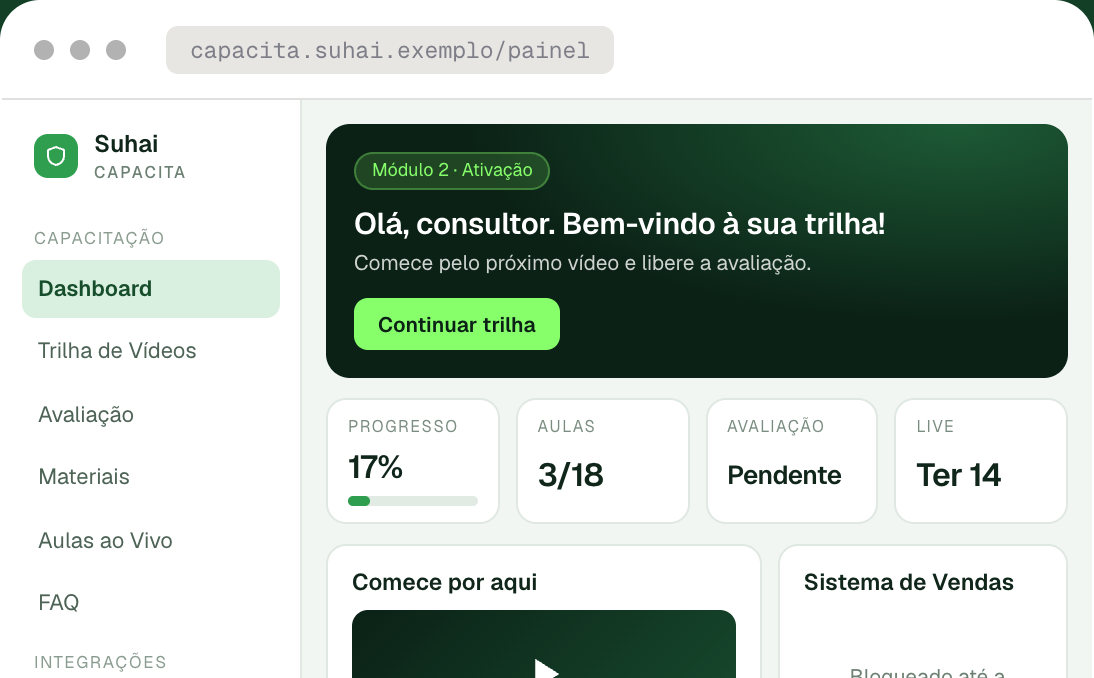
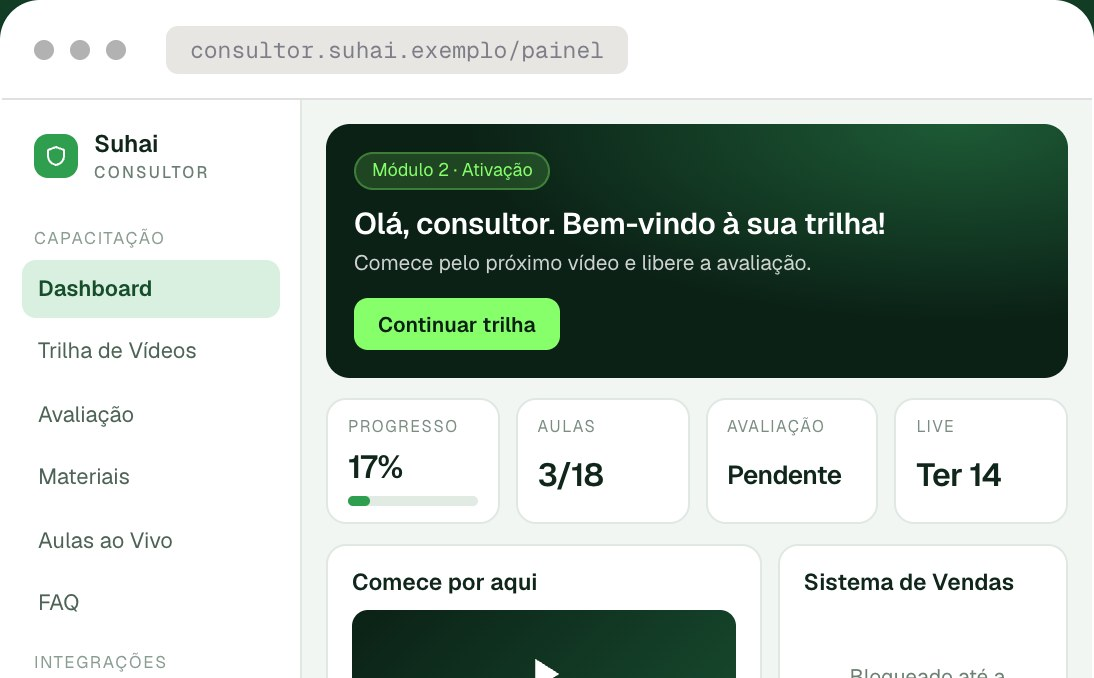
README com instruções de publicação; miniatura e endereço do Consultor Suhai; remove notas internas do repositório

diff --git a/design-system.html b/design-system.html
@@ -244,6 +244,14 @@ code,.mono{font-family:var(--font-mono)}
 .logo-sq{fill:#FF5047;transform-box:fill-box;transform-origin:center}
 .logo--branco{color:#fff}.logo--branco .logo-sq{fill:#fff}
 .logo--cinza{color:#565660}
+/* logo com palavra: o quadrado pula, gira 90° e troca de cor; a palavra entra embaixo */
+.lw{position:relative;width:min(80%,440px);container-type:inline-size;color:var(--fg)}
+.lw .logo-svg{height:auto;width:100%}
+.lw-hop{position:absolute;left:94.45%;top:50%;width:5.6%;height:21.132%;will-change:transform}
+.lw-sq{width:100%;height:100%;background:var(--coral);will-change:transform}
+.lw-words{position:absolute;right:0;top:calc(100% + 1.2cqw);height:9cqw;width:100%}
+.lw-w{position:absolute;right:0;top:0;font-family:var(--font-body);font-weight:500;font-size:7.6cqw;line-height:1;letter-spacing:-.015em;white-space:nowrap}
+.lw-stage{place-items:center;min-height:260px;padding-bottom:48px}
 .nav-links{display:flex;gap:2px;align-items:center}
 .nav-links .dd>button,.nav-links>a{display:inline-flex;align-items:center;gap:6px;padding:8px 12px;border:0;background:transparent;border-radius:var(--r-2);cursor:pointer;text-decoration:none;font-size:14.5px;color:var(--fg-2);transition:color var(--t-fast) ease,background var(--t-fast) ease}
 .nav-links .dd>button:hover,.nav-links>a:hover,.nav-links .dd.open>button{color:var(--fg);background:var(--surface-2)}
@@ -527,7 +535,7 @@ blockquote footer{margin-top:20px;display:flex;align-items:center;gap:12px;color
 <div class="cat" id="top">
   <nav class="cat-nav" aria-label="Catálogo">
     <h4>Fundamentos</h4>
-    <a href="#logotipo">Logotipo</a><a href="#favicon">Favicon</a><a href="#cores">Cores</a><a href="#tipografia">Tipografia</a><a href="#espaco">Espaço, raios e sombras</a><a href="#grid">Grid e moldura</a><a href="#vidro">Vidro</a><a href="#icones">Ícones</a><a href="#movimento">Movimento</a>
+    <a href="#logotipo">Logotipo</a><a href="#logo-palavra">Logo com palavra</a><a href="#favicon">Favicon</a><a href="#cores">Cores</a><a href="#tipografia">Tipografia</a><a href="#espaco">Espaço, raios e sombras</a><a href="#grid">Grid e moldura</a><a href="#vidro">Vidro</a><a href="#icones">Ícones</a><a href="#movimento">Movimento</a>
     <h4>Componentes básicos</h4>
     <a href="#botoes">Botões</a><a href="#liquido">Botão com degradê</a><a href="#tags">Tags e status</a><a href="#campos">Campos</a><a href="#selecao">Seleção e ajuste</a><a href="#tooltip-dd">Tooltip e dropdown</a><a href="#acc-tabs">Accordion e tabs</a><a href="#nav-pag">Breadcrumbs e paginação</a><a href="#feedback">Alerta e toast</a><a href="#overlays">Modal e drawer</a><a href="#estados">Vazio e skeleton</a>
     <h4>Componentes do site</h4>
@@ -559,8 +567,34 @@ blockquote footer{margin-top:20px;display:flex;align-items:center;gap:12px;color
           <div class="grid g3">
             <div><span class="stage-h">Tamanho mínimo</span><p class="t-small" style="margin-top:8px">24 px de altura em tela (o quadrado fica com 5 px). Abaixo disso, use só o quadrado coral.</p></div>
             <div><span class="stage-h">Área de proteção</span><p class="t-small" style="margin-top:8px">Livre em todos os lados a uma distância igual à altura do quadrado do logotipo, no mínimo.</p></div>
-            <div><span class="stage-h">Não fazer</span><p class="t-small" style="margin-top:8px">Não recolorir o quadrado, não usar gradiente, sombra ou contorno no logotipo, e não separar o quadrado do wordmark, exceto na animação do hero.</p></div>
+            <div><span class="stage-h">Não fazer</span><p class="t-small" style="margin-top:8px">Não recolorir o quadrado, não usar gradiente, sombra ou contorno no logotipo, e não separar o quadrado do wordmark, exceto na animação do hero e no logo com palavra.</p></div>
           </div>
+        </div>
+      </div>
+
+      <div class="spec" id="logo-palavra">
+        <header><h3>Logo com palavra</h3><p>Animação de assinatura. O quadrado do logotipo pula, gira 90° e troca de cor no topo do arco. Ao pousar, uma palavra entra embaixo na mesma cor. Depois da última palavra ele volta ao coral e o logo fica limpo. O quadrado nunca estica nem amassa. Usar em abertura de vídeo, hero, tela de carregamento e fechamento de apresentação, uma vez por tela.</p><code>.lw · .lw-hop · .lw-sq · .lw-words · data-lw-words</code></header>
+        <div class="grid g2">
+          <div class="stage lw-stage" data-surface="paper"><div class="lw" role="img" aria-label="segbox" data-lw-words="tecnologia, inovação, white label, projetos exclusivos"><svg class="logo-svg" viewBox="0 0 2000 530" aria-hidden="true"><use href="#logo-word"/></svg><div class="lw-hop"><div class="lw-sq"></div></div><div class="lw-words"></div></div><span class="stage-h" style="position:absolute;left:16px;top:14px">Fundo claro</span></div>
+          <div class="stage lw-stage" data-surface="ink"><div class="lw" role="img" aria-label="segbox" data-lw-words="tecnologia, inovação, white label, projetos exclusivos"><svg class="logo-svg" viewBox="0 0 2000 530" aria-hidden="true"><use href="#logo-word"/></svg><div class="lw-hop"><div class="lw-sq"></div></div><div class="lw-words"></div></div><span class="stage-h" style="position:absolute;left:16px;top:14px">Fundo escuro</span></div>
+        </div>
+        <div class="stage" data-surface="paper">
+          <div class="scroll-x"><table class="tbl">
+            <tr><th>Parte</th><th>Regra</th><th>Valor</th></tr>
+            <tr><td>Ciclo por palavra</td><td>pulo + pausa com a palavra na tela</td><td>560 + 640 ms</td></tr>
+            <tr><td>Pulo</td><td>sobe 1,7× o lado do quadrado, sem deformar</td><td>subida (0.25, 0.6, 0.35, 1) · queda (0.55, 0, 0.75, 0.3)</td></tr>
+            <tr><td>Giro</td><td>+90° por pulo, acumulado</td><td>(0.45, 0, 0.2, 1)</td></tr>
+            <tr><td>Troca de cor</td><td>no topo do arco, sem transição</td><td>laranja → tinta → coral</td></tr>
+            <tr><td>Palavra entra</td><td>sobe 45% da altura e tira 4 px de desfoque</td><td>280 ms · (0.2, 0.8, 0.2, 1)</td></tr>
+            <tr><td>Palavra sai</td><td>sobe 35% e desfoca 3 px</td><td>180 ms · (0.4, 0, 1, 1)</td></tr>
+            <tr><td>Logo limpo</td><td>volta ao coral e segura antes de repetir</td><td>1600 ms</td></tr>
+          </table></div>
+          <div class="grid g3">
+            <div><span class="stage-h">Palavras</span><p class="t-small" style="margin-top:8px">Minúsculas, uma ou duas palavras, sobre o que a Segbox faz: tecnologia, inovação, white label, projetos exclusivos. No máximo cinco por ciclo.</p></div>
+            <div><span class="stage-h">Tamanho</span><p class="t-small" style="margin-top:8px">Palavra com 7,6% da largura do logotipo, peso 500, alinhada à direita do quadrado. Logotipo com pelo menos 160 px de largura.</p></div>
+            <div><span class="stage-h">Não fazer</span><p class="t-small" style="margin-top:8px">Não esticar ou amassar o quadrado, não usar roxo, não colocar duas animações dessas na mesma tela e não usar palavra em laranja como texto de leitura.</p></div>
+          </div>
+          <p class="note">Com movimento reduzido ligado, o quadrado não pula: só troca de cor e a palavra aparece com fade.</p>
         </div>
       </div>
 
@@ -1537,3 +1571,38 @@ html.sgm-lock,html.sgm-lock body{overflow:hidden}
 })();
 </script>
 <!-- sgm:end -->
+<script>
+/* logo com palavra */
+(()=>{
+  const reduce=matchMedia('(prefers-reduced-motion: reduce)').matches;
+  const HOP=560,HOLD=640,REST=1600,ORDER=['ember','ink','coral'];
+  document.querySelectorAll('.lw').forEach(lw=>{
+    const hop=lw.querySelector('.lw-hop'),sq=lw.querySelector('.lw-sq'),box=lw.querySelector('.lw-words');
+    const words=(lw.dataset.lwWords||'').split(',').map(w=>w.trim()).filter(Boolean);
+    const col=k=>k==='coral'?'#FF5047':k==='ember'?'#FF8308':getComputedStyle(lw).color;
+    let rot=0,cur=null,i=-1;
+    function swap(text,color){
+      if(cur){const o=cur;cur=null;o.animate([{opacity:1,transform:'translateY(0)',filter:'blur(0)'},{opacity:0,transform:'translateY(-35%)',filter:'blur(3px)'}],{duration:reduce?120:180,easing:'cubic-bezier(.4,0,1,1)',fill:'forwards'}).finished.then(()=>o.remove())}
+      if(!text)return;
+      const w=document.createElement('span');w.className='lw-w';w.textContent=text;w.style.color=color;box.appendChild(w);cur=w;
+      w.animate(reduce?[{opacity:0},{opacity:1}]:[{opacity:0,transform:'translateY(45%)',filter:'blur(4px)'},{opacity:1,transform:'translateY(0)',filter:'blur(0)'}],{duration:280,delay:reduce?0:40,easing:'cubic-bezier(.2,.8,.2,1)',fill:'backwards'});
+    }
+    function jump(k,text){
+      const c=col(k);
+      if(reduce){sq.style.background=c;swap(text,c);return}
+      const r0=rot;rot+=90;
+      hop.animate([{transform:'translateY(0)',easing:'cubic-bezier(.25,.6,.35,1)'},{transform:'translateY(-170%)',offset:.5,easing:'cubic-bezier(.55,0,.75,.3)'},{transform:'translateY(0)'}],{duration:HOP});
+      sq.getAnimations().forEach(a=>a.cancel());
+      sq.animate([{transform:`rotate(${r0}deg)`},{transform:`rotate(${rot}deg)`}],{duration:HOP,easing:'cubic-bezier(.45,0,.2,1)',fill:'forwards'});
+      setTimeout(()=>{sq.style.background=c},HOP*.52);
+      setTimeout(()=>swap(text,c),HOP*.6);
+    }
+    function step(){
+      i++;
+      if(i>=words.length){jump('coral','');i=-1;setTimeout(step,HOP+REST);return}
+      jump(ORDER[i%3],words[i]);setTimeout(step,HOP+HOLD);
+    }
+    if(words.length)setTimeout(step,900);
+  });
+})();
+</script>

diff --git a/case-suhai-academy-v2.html b/case-suhai-academy-v2.html
@@ -1006,7 +1006,7 @@ body{background:var(--bone-100)}
 <p class="lead" data-in style="--i:2">A Suhai criou o programa. A Segbox construiu a plataforma que faz a regra valer: trilha em sequência, avaliação, certificado e só então o sistema de vendas.</p>
 <div class="row" data-in style="--i:3"><a class="btn btn--lg" href="#contato">Fale com a gente <svg class="ico ico-move"><use href="#i-arrow-ur"/></svg></a><a class="btn btn--secondary btn--lg" href="#jornada">Ver a jornada</a></div>
 <div class="chips" data-in style="--i:4"><span class="tag tag--boxed">Feito sobre a Otimize White Label</span><span class="tag tag--boxed">Projeto sob medida</span><span class="tag tag--boxed">Integração por SSO</span></div></div>
-<div class="stack" data-tilt data-in style="--i:2"><i class="sq sq--coral" style="width:150px;height:150px;right:2%;top:0"></i><i class="sq sq--indigo" style="width:88px;height:88px;right:-1%;bottom:34px"></i><i class="sq sq--ember" style="width:44px;height:44px;left:2%;top:4px"></i><div class="win ac"><div class="chrome"><span></span><span></span><span></span><div class="url">capacita.suhai.exemplo/painel</div></div><div class="ac-shell"><aside class="ac-side"><div class="ac-brand"><i><svg viewBox="0 0 24 24" stroke-linecap="round" stroke-linejoin="round"><path d="M12 3l8 3v6c0 5-3.5 8-8 9-4.5-1-8-4-8-9V6l8-3z"/></svg></i><span>Suhai<small>CONSULTOR</small></span></div><span class="sep">Capacitação</span><a class="on">Dashboard</a><a>Trilha de Vídeos</a><a>Avaliação</a><a>Materiais</a><a>Aulas ao Vivo</a><a>FAQ</a><span class="sep">Integrações</span><a>Sistema de Vendas</a><a>Venda+ Suhai</a></aside><div class="ac-main"><div class="ac-hero"><span class="chip">Módulo 2 · Ativação</span><h4>Olá, consultor. Bem-vindo à sua trilha!</h4><p>Comece pelo próximo vídeo e libere a avaliação.</p><span class="ac-btn">Continuar trilha</span></div><div class="ac-stats"><div class="ac-stat"><small>Progresso</small><b>17%</b><div class="ac-bar"><i style="width:17%"></i></div></div><div class="ac-stat"><small>Aulas</small><b>3/18</b></div><div class="ac-stat"><small>Avaliação</small><b style="font-size:13px">Pendente</b></div><div class="ac-stat"><small>Live</small><b>Ter 14</b></div></div><div class="ac-two"><div class="ac-card"><h5>Comece por aqui</h5><div class="ac-video"><svg viewBox="0 0 24 24" width="26" height="26" fill="#fff"><path d="M8 5l11 7-11 7z"/></svg></div></div><div class="ac-card"><h5>Sistema de Vendas</h5><div class="ac-lock"><svg viewBox="0 0 24 24" stroke-linecap="round" stroke-linejoin="round"><rect x="5" y="11" width="14" height="9" rx="2"/><path d="M8 11V8a4 4 0 018 0v3"/></svg><span>Bloqueado até a avaliação</span></div></div></div></div></div></div></div></div></section>
+<div class="stack" data-tilt data-in style="--i:2"><i class="sq sq--coral" style="width:150px;height:150px;right:2%;top:0"></i><i class="sq sq--indigo" style="width:88px;height:88px;right:-1%;bottom:34px"></i><i class="sq sq--ember" style="width:44px;height:44px;left:2%;top:4px"></i><div class="win ac"><div class="chrome"><span></span><span></span><span></span><div class="url">consultor.suhai.exemplo/painel</div></div><div class="ac-shell"><aside class="ac-side"><div class="ac-brand"><i><svg viewBox="0 0 24 24" stroke-linecap="round" stroke-linejoin="round"><path d="M12 3l8 3v6c0 5-3.5 8-8 9-4.5-1-8-4-8-9V6l8-3z"/></svg></i><span>Suhai<small>CONSULTOR</small></span></div><span class="sep">Capacitação</span><a class="on">Dashboard</a><a>Trilha de Vídeos</a><a>Avaliação</a><a>Materiais</a><a>Aulas ao Vivo</a><a>FAQ</a><span class="sep">Integrações</span><a>Sistema de Vendas</a><a>Venda+ Suhai</a></aside><div class="ac-main"><div class="ac-hero"><span class="chip">Módulo 2 · Ativação</span><h4>Olá, consultor. Bem-vindo à sua trilha!</h4><p>Comece pelo próximo vídeo e libere a avaliação.</p><span class="ac-btn">Continuar trilha</span></div><div class="ac-stats"><div class="ac-stat"><small>Progresso</small><b>17%</b><div class="ac-bar"><i style="width:17%"></i></div></div><div class="ac-stat"><small>Aulas</small><b>3/18</b></div><div class="ac-stat"><small>Avaliação</small><b style="font-size:13px">Pendente</b></div><div class="ac-stat"><small>Live</small><b>Ter 14</b></div></div><div class="ac-two"><div class="ac-card"><h5>Comece por aqui</h5><div class="ac-video"><svg viewBox="0 0 24 24" width="26" height="26" fill="#fff"><path d="M8 5l11 7-11 7z"/></svg></div></div><div class="ac-card"><h5>Sistema de Vendas</h5><div class="ac-lock"><svg viewBox="0 0 24 24" stroke-linecap="round" stroke-linejoin="round"><rect x="5" y="11" width="14" height="9" rx="2"/><path d="M8 11V8a4 4 0 018 0v3"/></svg><span>Bloqueado até a avaliação</span></div></div></div></div></div></div></div></div></section>
 <section class="v2-facts"><div class="container"><div class="g">
 <div class="f"><b data-c="18">18</b><span class="label" style="color:var(--fg-3)">aulas em sequência</span></div><div class="f"><b data-c="3">3</b><span class="label" style="color:var(--fg-3)">fases de trilha</span></div><div class="f"><b data-c="70" data-s="%">70%</b><span class="label" style="color:var(--fg-3)">nota mínima</span></div><div class="f"><b>1</b><span class="label" style="color:var(--fg-3)">login para vender</span></div>
 </div></div></section>

diff --git a/projetos-sob-medida.html b/projetos-sob-medida.html
@@ -1533,7 +1533,7 @@ body{background:var(--bone-100)}
 <div class="cl">
 <article class="pj-case" data-rv>
 <div class="cv"><div class="pj-fit" style="--fw:560;--fh:440"><div class="pj-fix pj-ui" role="img" aria-label="Tela do Consultor Suhai: painel do consultor com a trilha em andamento e o sistema de vendas bloqueado até a avaliação. Ao lado, o fluxo depois da aprovação: trilha, avaliação, certificado e sistema de vendas liberado por login único.">
-<div class="pj-win ac" style="width:540px;height:360px"><div class="pj-chr" aria-hidden="true"><i></i><i></i><i></i><span class="pj-url"><span><svg viewBox="0 0 24 24"><rect x="5" y="11" width="14" height="9" rx="2"/><path d="M8 11V8a4 4 0 018 0v3"/></svg>capacita.suhai.exemplo/painel</span></span></div>
+<div class="pj-win ac" style="width:540px;height:360px"><div class="pj-chr" aria-hidden="true"><i></i><i></i><i></i><span class="pj-url"><span><svg viewBox="0 0 24 24"><rect x="5" y="11" width="14" height="9" rx="2"/><path d="M8 11V8a4 4 0 018 0v3"/></svg>consultor.suhai.exemplo/painel</span></span></div>
 <div class="pj-body" aria-hidden="true"><div class="ac-shell"><div class="ac-side"><div class="ac-brand"><i><svg viewBox="0 0 24 24" stroke-linecap="round" stroke-linejoin="round"><path d="M12 3l8 3v6c0 5-3.5 8-8 9-4.5-1-8-4-8-9V6l8-3z"/></svg></i><span>Suhai<small>CONSULTOR</small></span></div><span class="sep">Capacitação</span><a class="on">Dashboard</a><a>Trilha de Vídeos</a><a>Avaliação</a><a>Materiais</a><a>Aulas ao Vivo</a><span class="sep">Integrações</span><a>Sistema de Vendas</a><a>Venda+ Suhai</a></div>
 <div class="ac-main"><div class="ac-hero"><span class="chip">Fase 1 · Ativação</span><h4>Olá, consultor. Bem-vindo à sua trilha!</h4><p>Comece pelo próximo vídeo e libere a avaliação.</p><span class="ac-btn">Continuar trilha</span></div>
 <div class="ac-stats"><div class="ac-stat"><small>Progresso</small><b>17%</b><div class="ac-bar"><i style="width:17%"></i></div></div><div class="ac-stat"><small>Aulas</small><b>3/18</b></div><div class="ac-stat"><small>Avaliação</small><b style="font-size:13px">Pendente</b></div><div class="ac-stat"><small>Nota mínima</small><b>70%</b></div></div>

diff --git a/README.md b/README.md
@@ -1,0 +1,79 @@
+# Site Segbox
+
+Site institucional da Segbox (tecnologia e white label para o mercado de seguros).
+
+Prévia ao vivo: https://taylane-crypto.github.io/site-segbox/
+
+O site é estático: só HTML, CSS, JavaScript e imagens. Não precisa instalar nada, não tem build e não tem dependências. Funciona em qualquer hospedagem de arquivos estáticos, como servidor próprio, Netlify, Vercel, Cloudflare Pages, S3 ou GitHub Pages.
+
+## Como publicar
+
+1. Baixe o repositório (Code → Download ZIP) ou clone com `git clone https://github.com/taylane-crypto/site-segbox.git`.
+2. Suba **todo o conteúdo da pasta** para a raiz do domínio, mantendo a estrutura de pastas.
+3. A home é o `index.html`. As outras páginas linkam umas às outras por caminho relativo (`sobre.html`, `produto-segzap.html` etc.), então tudo funciona em qualquer domínio ou subpasta.
+4. O arquivo `.nojekyll` só serve para o GitHub Pages e pode ser ignorado em outra hospedagem.
+
+Se quiser endereços sem `.html` (ex.: `/sobre`), configure isso na hospedagem. Na Netlify e na Vercel, a opção se chama "pretty URLs" ou "clean URLs".
+
+## Estrutura
+
+| Arquivo | Página |
+|---|---|
+| `index.html` | Home |
+| `sobre.html` | Sobre a Segbox |
+| `produto-segzap.html` | SegZap |
+| `produto-segzap-whitelabel.html` | SegZap White Label |
+| `produto-otimize.html` | Otimize |
+| `produto-otimize-whitelabel.html` | Otimize White Label |
+| `produto-corretorpro.html` | CorretorPRO |
+| `produto-leadsgo.html` | LeadsGO! |
+| `projetos-sob-medida.html` | Projetos sob medida |
+| `case-mapfre.html` | Case MAPFRE +Digital |
+| `case-suhai.html` | Case Venda+ Suhai |
+| `case-suhai-academy-v2.html` | Case Consultor Suhai |
+| `case-baeta.html` | Case BaetaPRO |
+| `termos-de-uso.html`, `politica-de-privacidade.html`, `politica-anti-spam.html`, `politica-de-pagamento.html`, `seguranca-da-informacao.html` | Páginas legais (rodapé) |
+| `design-system.html` | Design system do site (referência interna, não está no menu) |
+| `assets/` | Imagens, cubos 3D, fotos, logos e favicons |
+| `favicon.ico` | Ícone da aba |
+
+Cada página traz o próprio CSS e JS dentro do HTML. Não há arquivos .css ou .js separados.
+
+## Antes de colocar no ar (pendências)
+
+### 1. Formulários: hoje NÃO enviam dados
+Os formulários de contato validam os campos, mas não mandam os dados para lugar nenhum. Ao enviar, aparecem o texto "Enviando" e depois a mensagem "Prévia: o formulário não envia dados de verdade."
+
+Onde estão:
+- `index.html`, `case-mapfre.html`, `case-suhai.html`, `case-suhai-academy-v2.html`, `case-baeta.html`, `produto-segzap-whitelabel.html`: formulário `#leadForm`
+- `produto-otimize.html`: `#leadForm` (agendar demonstração)
+- `produto-otimize-whitelabel.html`: `#owForm`
+
+O que fazer: em cada página, procure o `addEventListener('submit'` do formulário. Troque o `setTimeout` que mostra a mensagem de prévia por um envio real (`fetch` para o CRM, RD Station, HubSpot, Formspree ou o endpoint que a Segbox usar). Depois troque a mensagem final por uma confirmação de verdade.
+
+Os campos são nome, sobrenome, e-mail e os demais do formulário. As páginas SegZap, CorretorPRO e LeadsGO! não têm formulário: os botões levam direto para o cadastro de cada plataforma.
+
+### 2. Fonte GT Standard: arquivo ausente
+As páginas carregam `fonts/GT-Standard-Medium.woff2`, mas esse arquivo não está no repositório porque é uma fonte licenciada. Sem ele, o navegador usa uma fonte de substituição e os títulos ficam diferentes do design.
+
+O que fazer: se a Segbox tem a licença, crie a pasta `fonts/` na raiz e coloque o `GT-Standard-Medium.woff2` dentro.
+
+### 3. Conteúdo a validar
+- Os cases da Suhai, da MAPFRE e da Baeta têm números marcados como **"a confirmar"**. Valide com cada cliente antes de divulgar.
+- Confirme se a Baeta aprovou aparecer como case.
+- O botão "Falar com a gente" do plano Enterprise do SegZap ainda não aponta para nenhum canal de contato.
+- `design-system.html` é uma referência interna. Se não deve ficar público, não suba esse arquivo.
+
+## Links externos usados no site
+
+- SegZap: https://app.segzap.com.br/register
+- Otimize (teste): https://app.otimize.online/cadastro
+- CorretorPRO: https://app.corretorpro.online/cadastro
+- INSUMMIT: https://insummit.online/
+- Redes: LinkedIn https://www.linkedin.com/company/segbox · Instagram https://www.instagram.com/segbox/ · YouTube https://www.youtube.com/@segbox-oficial
+
+## Sobre este repositório
+
+Este repositório guarda a **versão pronta para publicar**. Os arquivos-fonte ficam com a Taylane, e as atualizações dela chegam aqui substituindo as páginas e a pasta `assets/`.
+
+Se a equipe for editar os arquivos direto aqui, combine com ela antes, para que uma atualização não sobrescreva a outra.
